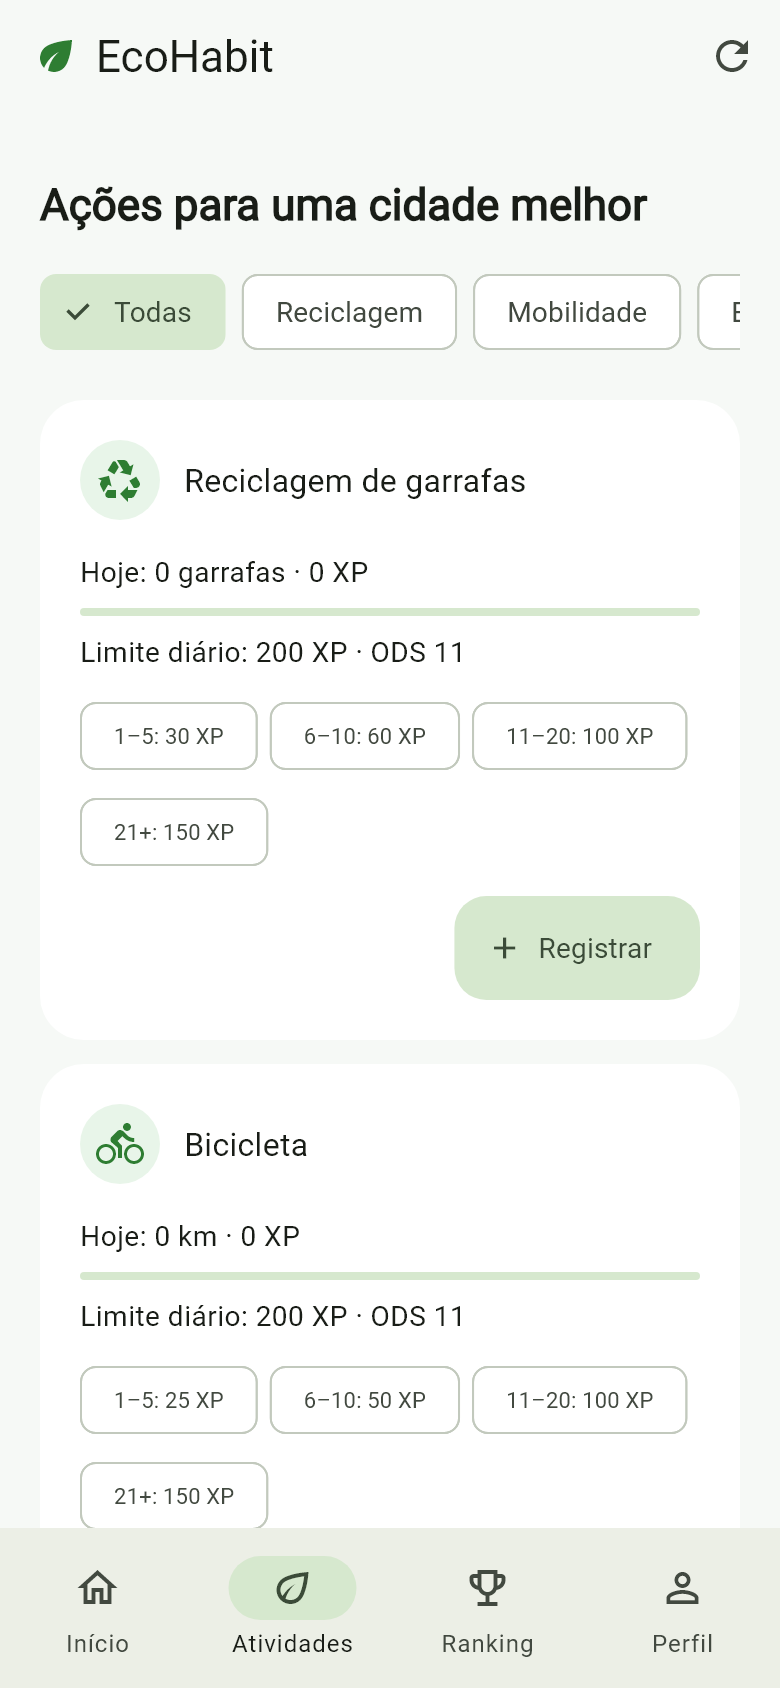
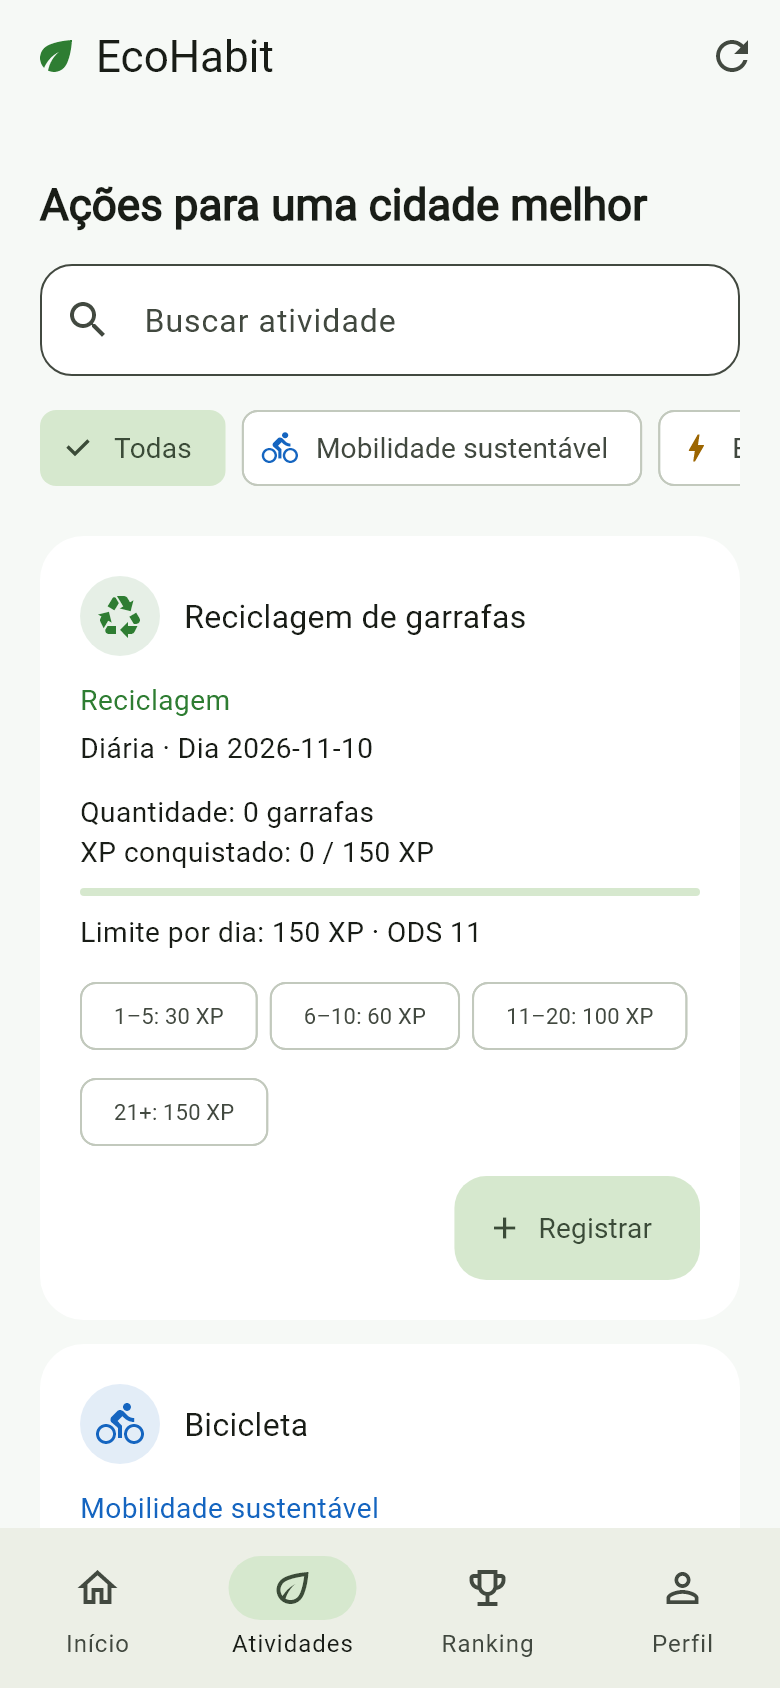
docs: document 20 activities migration and verified Android results

diff --git a/docs/ARQUITETURA.md b/docs/ARQUITETURA.md
@@ -3,7 +3,9 @@
 O aplicativo Android funciona sem backend. `main.dart` abre SQLite e injeta os repositórios em `AppState`. A apresentação observa esse estado com Provider. Telas não executam SQL nem calculam hashes de senha.
 
 - `models/domain.dart`: modelos, faixas, níveis e datas civis.
-- `core/database/app_database.dart`: abertura, schema v1, catálogo inicial, índices e integridade referencial.
+- `core/database/app_database.dart`: abertura, schema v1 e migração atômica para v2, índices e integridade referencial.
+- `core/constants/activity_catalog.dart`: catálogo aprovado com 20 códigos estáveis e 66 faixas.
+- `core/constants/activity_categories.dart`: seis categorias, busca sem acentos, ícones e cores.
 - `repositories/auth_repository.dart`: cadastro, login, sessão protegida, troca e recuperação de senha.
 - `repositories/activity_repository.dart`: consultas e transação de registro.
 - `services/password_service.dart`: PBKDF2 em isolate e aleatoriedade segura.
@@ -13,17 +15,23 @@ O aplicativo Android funciona sem backend. `main.dart` abre SQLite e injeta os r
 
 ## Consistência e pontuação
 
-Cada confirmação recebe um identificador aleatório persistido com restrição UNIQUE. Dentro de uma transação SQLite, o repositório verifica a idempotência, lê o catálogo vigente, soma quantidades e XP já concedido naquele dia, calcula a diferença não negativa e insere o registro. O SQLite serializa as transações. A repetição do identificador com a mesma carga retorna o resultado existente; com carga diferente, falha.
+Cada confirmação recebe um identificador aleatório persistido com restrição UNIQUE. Dentro de uma transação SQLite, o repositório verifica a idempotência (inclusive referência/potência), lê e valida o catálogo, verifica conquista/referência duplicada, soma quantidade e XP no período e insere o registro. O SQLite serializa as transações. Repetir a operação com a mesma carga retorna seu resultado; mudar a carga falha.
 
-XP total, nível e ranking são derivados dos registros. Não existe campo editável de XP no usuário. Quantidades são inteiros positivos; a aplicação limita cada entrada a 2.147.483.647, sem alterar as faixas aprovadas. Registros com zero XP são preservados. Uma configuração de teto menor limita a faixa; um teto maior não cria bônus. Alterações futuras de faixas devem incrementar `configuracoes.versao_regra` em migração e manter as faixas monotônicas.
+O período é definido por modalidade: DIARIA/DIA usa `YYYY-MM-DD`, PERIODICA/MES usa `YYYY-MM`, UNICA/VIDA usa `VIDA`. O XP adicional é `max(0, min(faixa da quantidade acumulada, limite) - XP já concedido)`. Conquistas aceitam uma unidade, uma vez por usuário/atividade, com índice único parcial além da validação Dart. Não se inserem registros adicionais de uma conquista concluída. Diárias/mensais preservam registros mesmo sem XP adicional.
 
-O dia usa a data civil local do dispositivo no momento da transação; `criado_em` é UTC. A semana vai de segunda-feira inclusiva à próxima segunda exclusiva. A data civil é preservada, inclusive se o fuso do aparelho mudar posteriormente. Não há temporizador que apague dados na meia-noite: as consultas começam naturalmente um novo agrupamento diário. O estado é atualizado ao retomar o app e verifica a mudança de dia a cada 15 segundos enquanto ativo.
+Referências são obrigatórias em mobilidade e eventos mensais, opcionais nas demais ações. São normalizadas com trim, espaços internos únicos e letras minúsculas, limitadas a 120 caracteres. O grupo `TRAJETO` é compartilhado pelas cinco modalidades de mobilidade: o mesmo trecho não pode pontuar em duas delas. Nos demais grupos, o código estável da atividade identifica o tipo do evento. O índice único `(usuario_id, grupo_acao, referencia_acao)` impede a repetição inclusive em outro dia/mês. Uma viagem multimodal deve usar referências de trechos distintos, sem reutilizar o mesmo trecho. A veracidade e a escolha da referência continuam autodeclaradas.
+
+XP total, nível e ranking são derivados dos registros. Não existe campo editável de XP no usuário. Quantidades são inteiros positivos até 2.147.483.647 por entrada, inclusive para kg/kWh/km. Uma configuração de teto menor limita a faixa; teto maior não cria bônus. Alterações futuras devem incrementar a versão da atividade e a configuração correspondente em migração, mantendo faixas contíguas, sem sobreposição/lacunas e XP não decrescente. O serviço rejeita modalidade/período incompatíveis e faixas inválidas. A prévia usa o XP efetivamente concedido; a transação recalcula no instante da confirmação.
+
+O MVP aceita somente o momento atual: a API de registro não recebe data e a interface não oferece lançamentos retroativos. Data civil, chave do período e instante UTC são capturados juntos; nunca são recalculados após mudança de fuso. O relógio é injetável exclusivamente para testar fronteiras. O dispositivo ainda pode ter seu relógio adulterado: não há fonte confiável de tempo offline. A semana vai de segunda inclusiva à próxima segunda exclusiva. O ranking semanal soma o XP concedido na data de cada registro, inclusive para atividades mensais/únicas. Não há apagamento na meia-noite ou virada de mês: muda o agrupamento consultado. Provider atualiza ao retomar e verifica a virada de dia a cada 15 segundos.
 
 ## Banco e evolução
 
-`usuarios`, `atividades`, `faixas_pontuacao`, `registros`, `configuracoes` e `recuperacao` têm chaves, restrições e índices definidos no código do banco. `registros` inclui potência informada e versão dos fatores, além dos campos solicitados. `recuperacao` mantém somente hash, salt e custo do código secreto. O e-mail tem unicidade COLLATE NOCASE e é normalizado antes da gravação. O catálogo é inserido somente na criação.
+`usuarios`, `atividades`, `faixas_pontuacao`, `registros`, `configuracoes` e `recuperacao` mantêm seus dados. A versão 2 acrescenta código único, modalidade, período, limite, grupo e versão em `atividades`; `registros` recebe modalidade/período/chave e referência/grupo de ação. Faixas são substituídas pelas 66 faixas aprovadas durante a migração. Registros recebem snapshots do tipo/período e versão; mudanças futuras não alteram XP histórico. `recuperacao` mantém somente hash, salt e custo do código secreto. O e-mail segue único COLLATE NOCASE.
 
-O schema inicial é a versão 1. `onUpgrade` é o ponto explícito de migração e rejeita caminhos não implementados; não há migração histórica fictícia nem descarte automático de banco. Uma próxima versão deve implementar migrações incrementais antes de aumentar `version`. `PRAGMA foreign_keys=ON` é verificado ao abrir e `foreign_key_check` detecta referências quebradas. Consultas com dados do usuário são parametrizadas.
+O schema vigente é v2. Novos bancos aplicam o schema v1 e a mesma migração usada no upgrade. `onUpgrade` faz v1 → v2 dentro da transação de versão do sqflite; não apaga/recria o banco. Os IDs legados 1/2/3 são preservados como `garrafas_pet`/`bicicleta`/`luzes_apagadas`. A chave de período antiga é preenchida pela `data_local` original, sem converter o UTC nem recalcular XP; versões antigas continuam `xp-v1`. Códigos extras locais são preservados como `legado_<id>` inativos, mantendo seu histórico. Os limites aprovados de v2 ficam em `limite_xp`; `limite_xp_diario` é mantido por compatibilidade de schema, sem leituras no motor v2.
+
+O catálogo é configurado só na criação/migração, sem reseed ao reabrir: novas inicializações não duplicam atividades/faixas nem desfazem configurações. Índices de consulta cobrem usuário/dia, semana e usuário/atividade/período. Índices únicos parciais impõem conquistas e referências; trigger valida chave/modalidade/período e a unidade da conquista. `PRAGMA foreign_keys=ON` é verificado ao abrir e `foreign_key_check` detecta referências quebradas. Consultas com entrada do usuário são parametrizadas. Testes induzem falha na migração e verificam rollback de DDL/dados/versão. Caminhos de versão não implementados são rejeitados, sem descarte automático.
 
 ## Segurança e limites offline
 
@@ -35,7 +43,7 @@ Os dados de atividades e e-mails permanecem no SQLite privado do app, sem cripto
 
 ## Impacto ambiental v1
 
-A versão `impacto-v1` é persistida em cada registro, separada de `xp-v1`.
+A versão `impacto-v1` é persistida em cada registro, separada de `xp-v1`/`xp-v2`. O serviço usa códigos estáveis, sem depender do ID numérico.
 
 | Indicador | Regra e hipótese | Disponibilidade |
 | --- | --- | --- |
@@ -46,6 +54,8 @@ A versão `impacto-v1` é persistida em cada registro, separada de `xp-v1`.
 
 Fonte da relação de energia: [U.S. Energy Information Administration — Measuring electricity](https://www.eia.gov/energyexplained/electricity/measuring-electricity.php), consultada em 09/11/2026. Um kW corresponde a 1.000 W; Wh representa energia de um watt durante uma hora. Não foi assumida potência padrão. Os valores são estimativas contrafactuais, não medições nem créditos certificados. `NULL` significa não calculado, não zero. A soma de kWh cobre apenas os registros com potência; isso é informado na interface.
 
+Para as novas atividades sem fator validado, só a quantidade declarada aparece nos cards e no histórico. Energia solar registra kWh gerados, não kWh evitados; aparelhos desligados registram horas, sem assumir potência. Carros elétricos não emitem gases pelo escapamento, mas geração elétrica e ciclo de vida têm impactos. Não há conversão implícita para CO2 ou alegação de emissão zero.
+
 ## Testes
 
-Os testes do domínio/repositórios usam SQLite real via FFI, bancos independentes e relógio injetável. Um teste fecha e reabre arquivo em diretório temporário. Testes de widget verificam validação, níveis e fluxo de navegação conectado a SQLite. O custo PBKDF2 é reduzido exclusivamente no dublê `TestPasswords`; o algoritmo real também é confrontado com um vetor PBKDF2-SHA256 conhecido de uma iteração. Isso não constitui benchmark do custo de produção. A sessão protegida é substituída por memória nos testes; o Keystore depende de validação em Android real.
+Os testes usam SQLite real via FFI, bancos independentes e relógio injetável. Uma matriz independente dos requisitos verifica cada fronteira das 20 atividades. São verificados múltiplos registros, referências, limites diários/mensais, viradas de dia/mês/ano, conquistas vitalícias, corridas, registros sem XP, ranking e reabertura. Migração usa arquivo v1 com conta/sessão/histórico e também falha induzida para conferir atomicidade. Widgets verificam filtros/busca, referência obrigatória, quantidade fixa da conquista e botão “Concluída” desabilitado. O custo PBKDF2 é reduzido só no dublê `TestPasswords`; o algoritmo real tem vetor conhecido. Isso não é benchmark do custo de produção nem validação nativa do Keystore.

diff --git a/docs/VALIDACAO.md b/docs/VALIDACAO.md
@@ -1,5 +1,31 @@
 # Validação da implementação
 
+## Atualização para 20 atividades — 10/11/2026
+
+Versão validada: **3.1.0+2**, banco **v2**, regras novas **xp-v2**.
+
+- `flutter pub get`: sucesso, mantendo as versões do lockfile.
+- `flutter analyze`: **No issues found!** na execução final.
+- `flutter test`: **63 testes aprovados**. A mesma suíte passou com `--dart-define=CAPTURE_SCREENSHOTS=true`, atualizando as capturas dos widgets.
+- `flutter build apk --debug`: sucesso, código de saída 0; compilação em aproximadamente 222 segundos.
+- `apksigner verify --verbose`: assinatura v2 válida. `aapt dump badging` confirmou `3.1.0`, versionCode `2`, SDK mínimo 24 e target/compile 36.
[1 lines of base64/hex data omitted]
+- Instalação com `adb install -r -t`: sucesso no Pixel 6 / `emulator-5554`, preservando os dados. A atividade `br.edu.umc.ecohabit/.MainActivity` foi confirmada em primeiro plano e a tela foi inspecionada. Não foi encontrada falha do EcoHabit no buffer de crashes consultado.
+- Conferência adicional sobre cópias locais do banco real: **1 teste aprovado**. Confirmou versão 1 antes, versão 2 depois, preservação dos campos antigos de usuários/recuperação/registros, 20 atividades, 66 faixas, chaves diárias legadas e integridade referencial.
+- Essas cópias e a captura com a conta do usuário ficaram exclusivamente em `.tools/`, ignoradas pelo Git. Não foram incluídos bancos ou dados pessoais no repositório.
+
+Os 63 testes versionados cobrem as 20 atividades e fronteiras de faixas, modalidades, teto diário/mensal, registro sem XP, viradas de dia/mês/ano, conquistas vitalícias, ranking, idempotência, referências repetidas, corridas e migração. Os testes de interface cobrem busca, sete chips (Todas + seis categorias), quantidade fixa da conquista, botão “Concluída” bloqueado e referência obrigatória em registro mensal. A matriz de faixas dos testes é independente das constantes usadas na inicialização.
+
+A migração em arquivo preserva conta, credenciais derivadas, sessão, IDs, data local, instante UTC e XP legado. Um segundo caso provoca falha durante a migração e confirma rollback de DDL, catálogo, dados e `user_version`. A mensagem “falha controlada” impressa nesse teste é esperada e sua exceção é verificada, não um erro pendente do aplicativo.
+
+Durante o desenvolvimento foram corrigidas referências antigas do teste de impacto (ID → código estável), a rolagem nos formulários maiores e um apontamento de estilo. As execuções com falha não foram contadas como aprovação. A conferência local do banco real também foi ajustada para usar caminhos absolutos; somente a execução aprovada é relatada como validação.
+
+O `.gitignore` existente foi revisado e já cobre caches, SDKs, arquivos `.env`, chaves de assinatura, configurações locais e bancos/arquivos auxiliares SQLite. A inspeção do histórico e dos arquivos versionados não identificou padrões de token/chave privada nem arquivos de banco/segredos a publicar. As senhas determinísticas presentes em testes são apenas fixtures de bancos temporários, não credenciais de contas reais.
+
+Limitações mantidas: quantidades inteiras, somente registros do momento atual, referências autodeclaradas, relógio local não confiável contra adulteração, fatores de CO2 não validados e ausência de teste em aparelho físico. Permaneceram avisos não fatais das ferramentas Android/JDK. A publicação e a visibilidade do GitHub precisam de confirmação pela API; a mudança para público exige autorização explícita do proprietário.
+
+## Histórico da implementação anterior
+
 Ambiente da implementação inicial: Windows, Flutter estável 3.47.9, Dart 3.13.7 e JDK 21. O diretório inicial estava vazio. SDKs e caches ficam em `.tools/`, ignorado pelo Git. A validação posterior no Pixel 6 está registrada ao final.
 
 ## Etapas e evidências
@@ -44,10 +70,10 @@ São renderizações de teste Flutter com conta explicitamente identificada como
 - A sessão nos testes automatizados usa armazenamento em memória; não se atribui a esses testes uma validação nativa do Keystore.
 - O custo de produção de PBKDF2 não foi cronometrado. O dublê usa custo reduzido para testes e há comparação do algoritmo real com vetor conhecido.
 - Não foram validados fatores de CO2; os campos correspondentes são nulos por decisão explícita e documentada.
-- A migração histórica não pode ser testada sem uma versão anterior: este é o schema inicial v1. Versões futuras precisam de migrações implementadas e testadas.
+- Na implementação inicial o schema era v1 e não havia banco anterior. A atualização para v2 possui testes de migração e rollback, descritos acima.
 - O resultado de CI remoto não faz parte da validação local registrada aqui; deve ser consultado no GitHub Actions.
 
-## Resultado Android
+## Resultado Android da etapa anterior (3.0.0)
 
 APK final gerado em `build/app/outputs/flutter-apk/app-debug.apk` e verificado em 10/11/2026.
 
